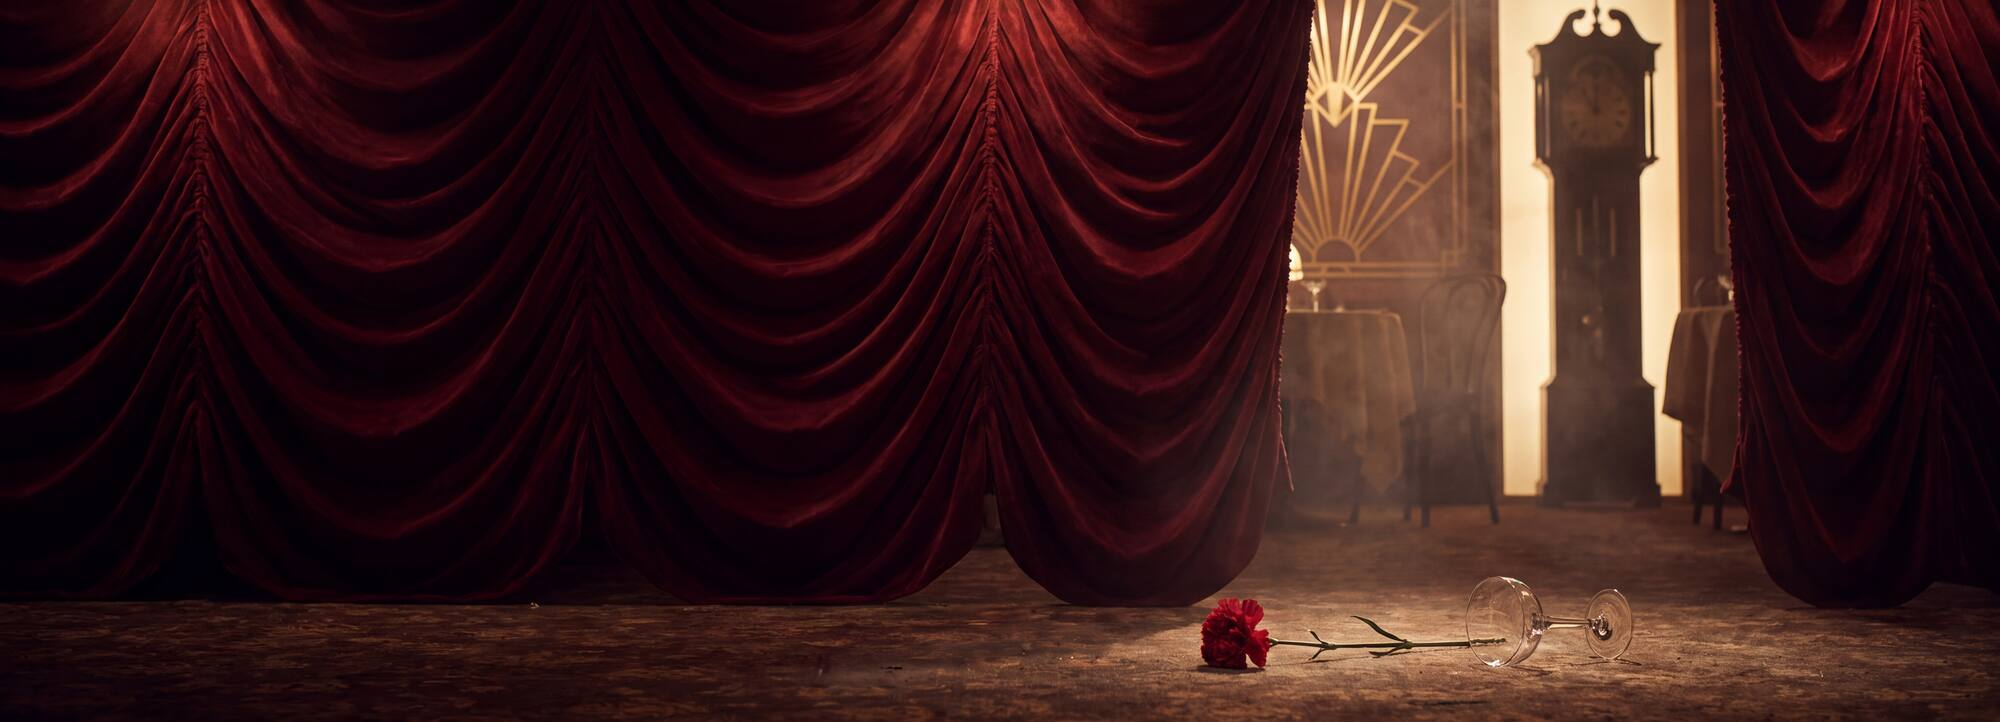
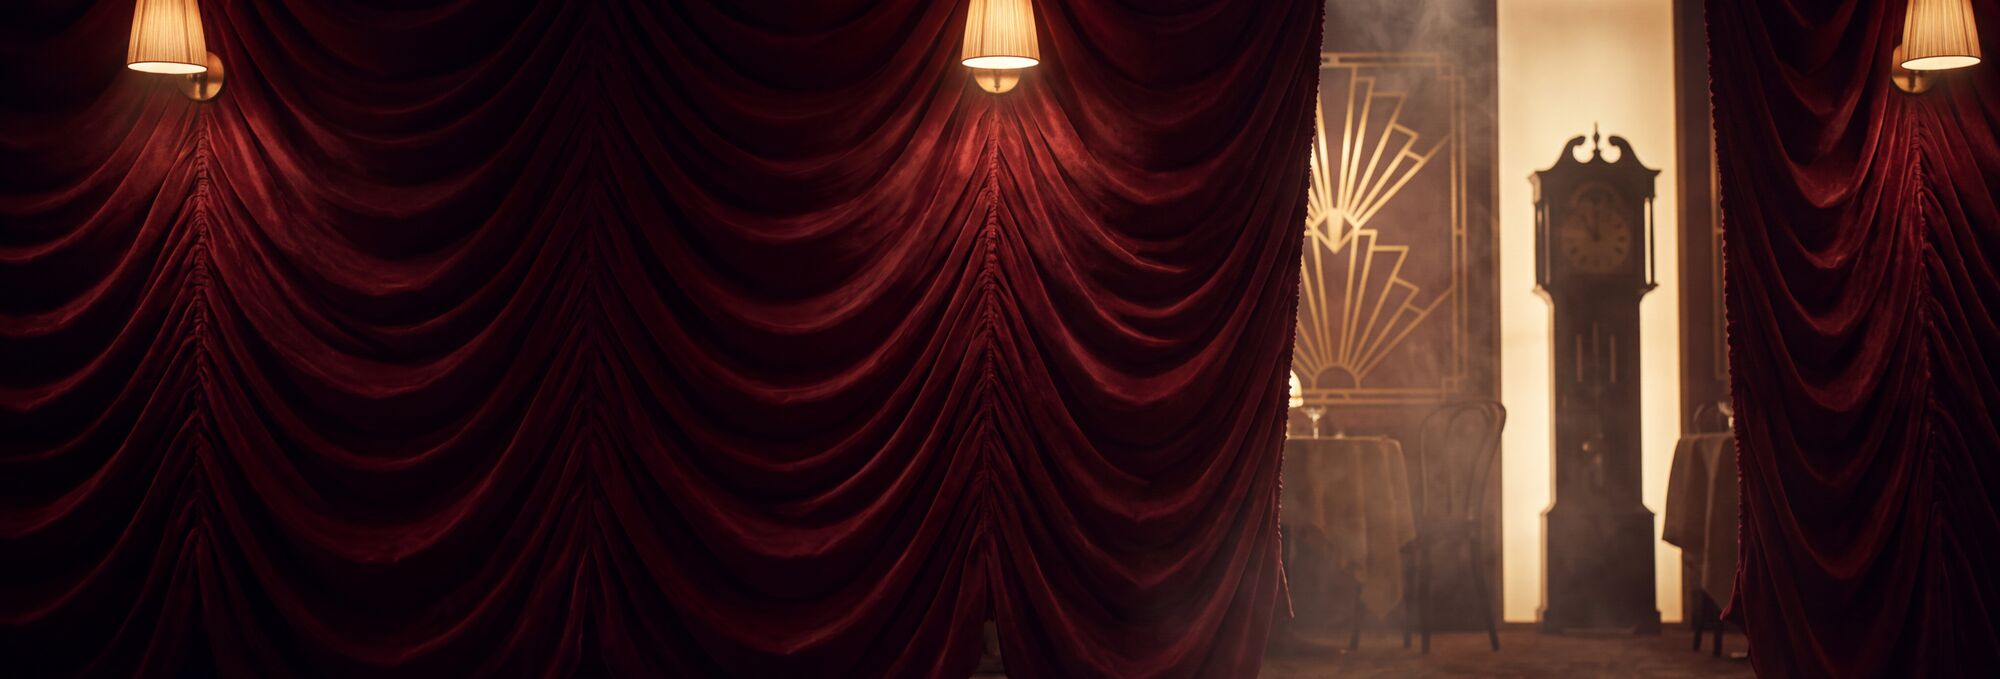
fix: hero without the carnation
Claude-Session: https://claude.ai/code/session_0167zvbwKnmaaNMpaVJm1xRu

diff --git a/style.css b/style.css
@@ -4,7 +4,7 @@ html{background:var(--ink)}
 body{margin:0;color:var(--cream);background:var(--ink);font:400 1.15rem/1.6 "Cormorant Garamond",Georgia,serif}
 a{color:var(--brass)}
 a:focus-visible,.btn:focus-visible{outline:2px solid var(--brass);outline-offset:3px}
-.hero{min-height:88vh;display:flex;align-items:center;background:linear-gradient(90deg,rgba(28,10,18,.92) 0%,rgba(28,10,18,.55) 55%,rgba(28,10,18,.1) 100%),url(img/curtain.jpg) center/cover}
+.hero{min-height:88vh;display:flex;align-items:center;background:linear-gradient(90deg,rgba(28,10,18,.92) 0%,rgba(28,10,18,.55) 55%,rgba(28,10,18,.1) 100%),url(img/curtain.jpg) 80% center/cover}
 .wrap{width:min(68rem,100% - 2rem);margin:0 auto}
 .mark{width:84px;height:84px}
 h1{font:400 clamp(2.4rem,7vw,4.6rem)/1.05 Limelight,serif;margin:.6rem 0 .4rem}
@@ -33,3 +33,4 @@ h3{font:400 1.4rem/1.2 Limelight,serif;margin:.4rem 0}
 .doc figure{margin:1.5rem 0}
 .doc img{display:block;width:100%;height:auto}
 .said{font-style:italic;font-weight:600;color:var(--brass)}
+@media (max-width:40rem){.hero{background-position:35% center}}
